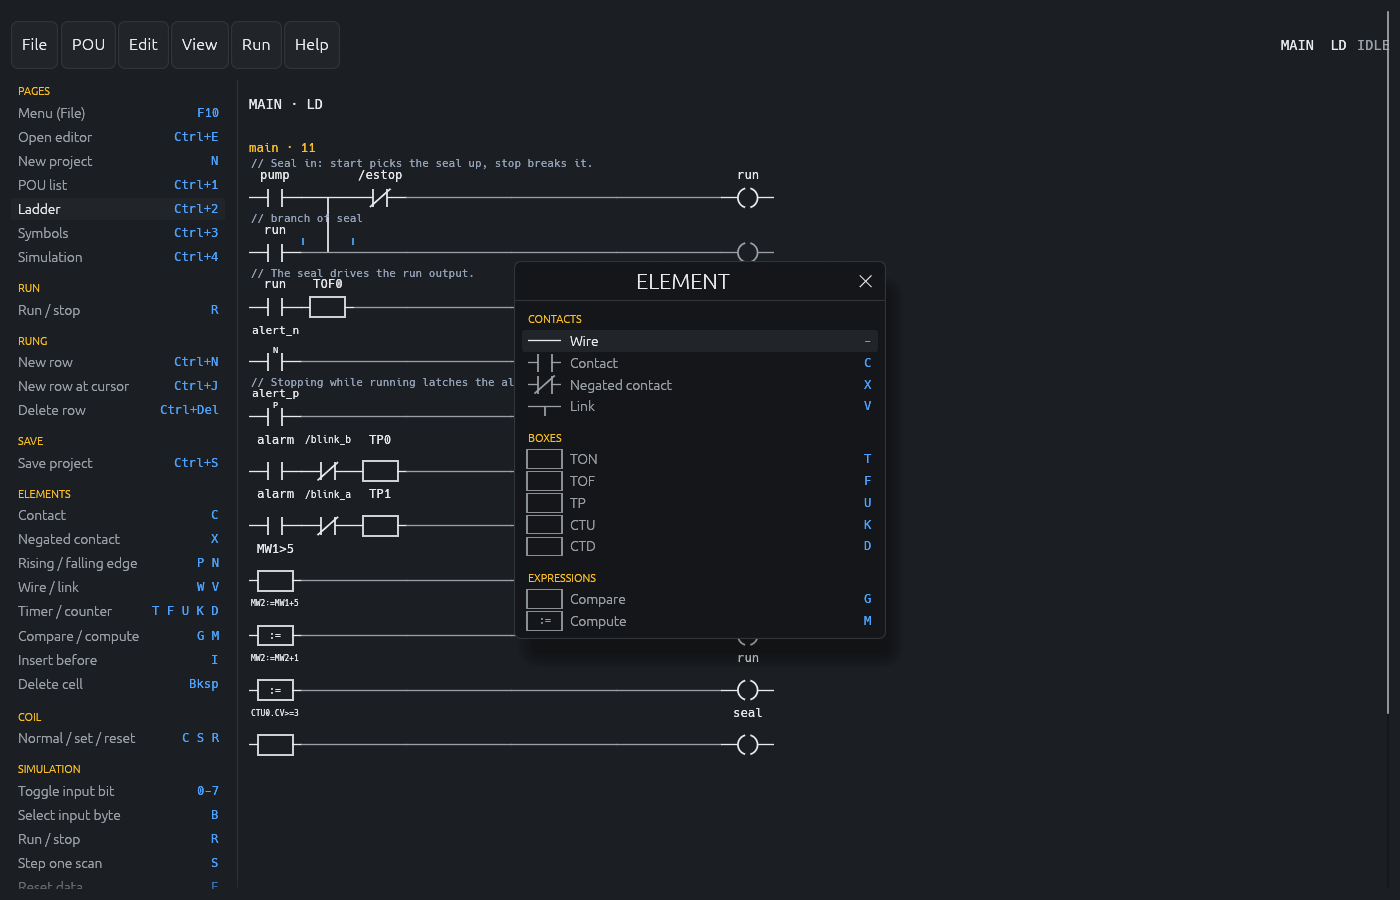
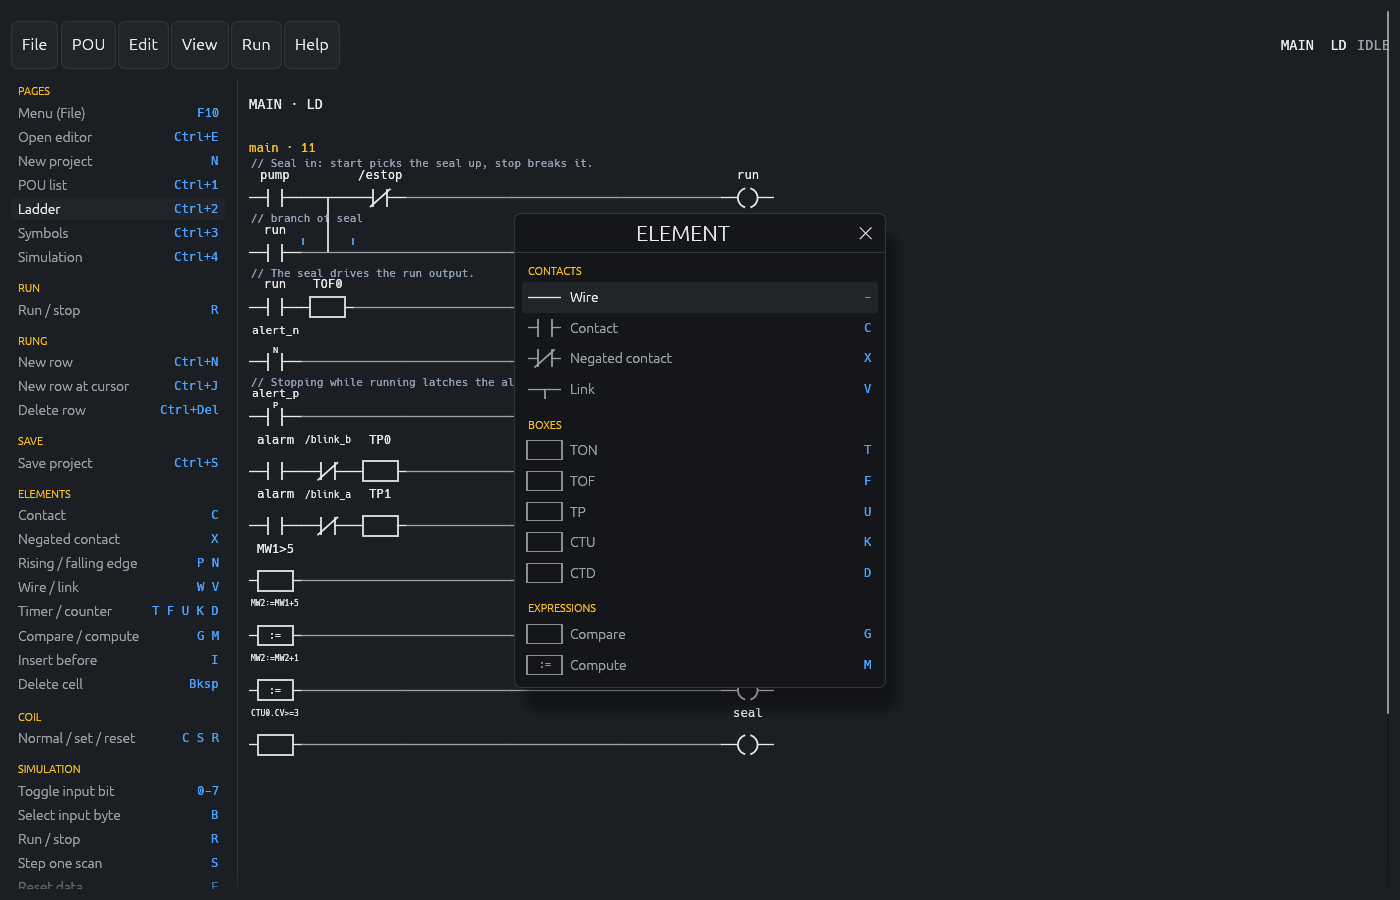
fix(plc): give the element picker's glyphs room to breathe
The contact bars reach 8 px either side of the conductor, so at the rail's own row
height the 18 px glyph boxes met their neighbours top and bottom. Picker rows are
8 px taller, which leaves a clear band above and below every icon.

diff --git a/crates/linc-ui/src/screens/plc_grid.rs b/crates/linc-ui/src/screens/plc_grid.rs
@@ -528,6 +528,11 @@ pub fn editor_keys(app: &mut LincApp, ui: &Ui, actions: &mut Vec<Action>) {
 /// A picker row reads like a navigation row: the symbol on the left, its keyboard
 /// chord on the right, no button chrome. The chord is the hint, so the element
 /// name never carries a bracketed key and the two never disagree.
+/// A picker row is taller than a rail row so the glyphs keep a clear band of
+/// padding: the contact bars reach 8 px either side of the conductor, so the
+/// 18 px glyph box would touch its neighbours at the rail's own height.
+const PICKER_ROW_HEIGHT: f32 = theme::NAV_ROW_HEIGHT_SECONDARY + 8.0;
+
 fn picker_row(ui: &mut Ui, symbol: &str, chord: &str) -> egui::Response {
     let width = 280.0_f32.max(ui.available_width());
     let (rect, response) = ui.allocate_exact_size(
@@ -1076,7 +1081,7 @@ fn element_picker(plc: &mut PlcUi, ctx: &egui::Context, actions: &mut Vec<Action
                 }
                 let selected = index == plc.picker_cursor;
                 let (rect, response) = ui.allocate_exact_size(
-                    egui::vec2(ui.available_width(), theme::NAV_ROW_HEIGHT_SECONDARY),
+                    egui::vec2(ui.available_width(), PICKER_ROW_HEIGHT),
                     egui::Sense::click(),
                 );
                 if selected {
@@ -1822,7 +1827,12 @@ fn arc_points(
         .collect()
 }
 
-pub(crate) fn draw_cell_symbol(painter: &egui::Painter, rect: egui::Rect, symbol: CellSymbol, color: Color32) {
+pub(crate) fn draw_cell_symbol(
+    painter: &egui::Painter,
+    rect: egui::Rect,
+    symbol: CellSymbol,
+    color: Color32,
+) {
     let line = Stroke::new(1.6, color);
     let thin = Stroke::new(1.2, color);
     let y = rect.top() + CONDUCTOR_Y;
